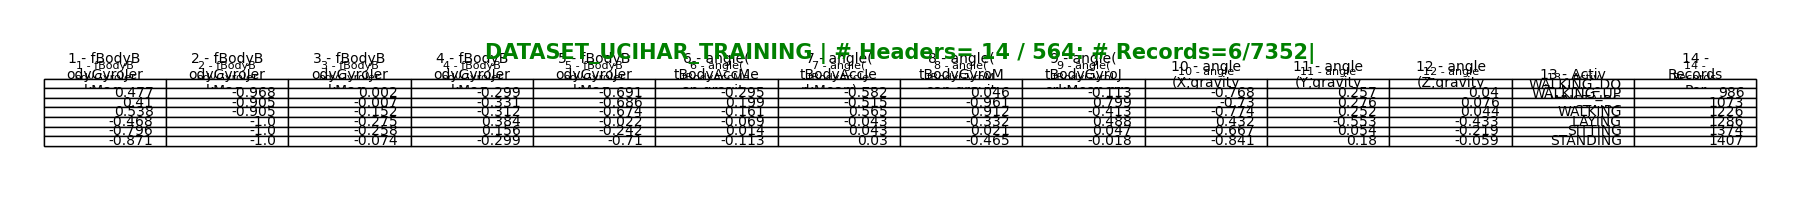
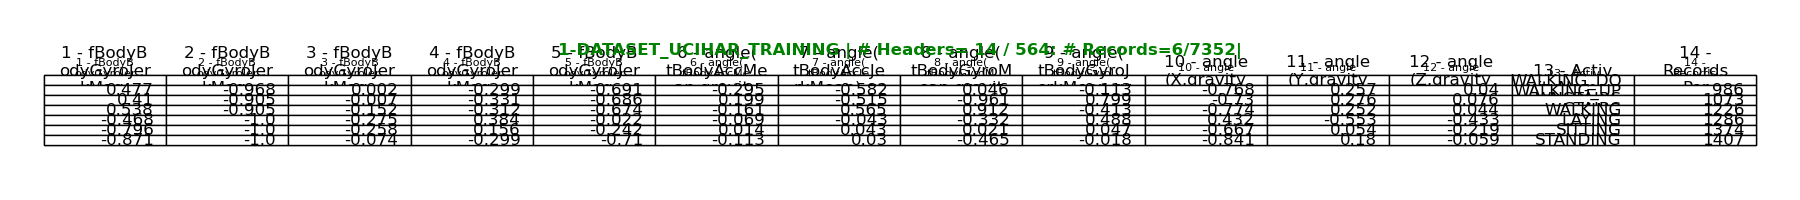
graphs

Changed region(s): [[0.0, 0.21, 0.9956, 0.75]]

diff --git a/3Ucihar/datatable.py b/3Ucihar/datatable.py
@@ -6,15 +6,11 @@ import pandas as pd
 pd.set_option('max_colwidth', 10)
 pd.options.display.precision = 3
 plt.rcParams['figure.figsize'] = [15, 8]  # Plot-frame
-# plt.rcParams["figure.autolayout"] = True
+plt.rcParams["figure.autolayout"] = True
 plt.rcParams.update({'font.size': 29})  # Inside
-fondSizing = 15  # SupTitle & Xlabel
-recordsHieght = 14
+fontSizing = 12  # SupTitle & Xlabel
+recordWidth = 14
 
-print("=================================|Select_DataFrame_Source|========================1==============")
-
-df1 = pd.read_csv("./../6dataXYZ/ucihar4x.csv")
-df1 = pd.DataFrame(df1)
 kalas = ['palegreen', 'orange', 'yellow', 'gray', 'skyblue', 'green', 'palegreen', 'orange', 'yellow', 'gray', 'skyblue', 'green',
          'palegreen', 'orange', 'yellow', 'gray', 'skyblue', 'green', 'palegreen', 'orange', 'yellow', 'gray', 'skyblue', 'green',
          'palegreen', 'orange', 'yellow', 'gray', 'skyblue', 'green', 'palegreen', 'orange', 'yellow', 'gray', 'skyblue', 'green',
@@ -26,7 +22,9 @@ kalas = ['palegreen', 'orange', 'yellow', 'gray', 'skyblue', 'green', 'palegreen
          'palegreen', 'orange', 'yellow', 'gray', 'skyblue', 'green', 'palegreen', 'orange', 'yellow', 'gray', 'skyblue', 'green',
          'palegreen', 'orange', 'yellow', 'gray', 'skyblue', 'green', 'palegreen', 'orange', 'yellow', 'gray', 'skyblue', 'green']
 
-print('=======================================|Activity_Counter|==========================2==============')
+print("=================================|TABLE1_TRAINING_DATA|========================1==============")
+df1 = pd.read_csv("./../6dataXYZ/ucihar4x.csv")
+df1 = pd.DataFrame(df1)
 A1 = len(df1.loc[df1['ActivityName'].isin(['LAYING'])])
 A2 = len(df1.loc[df1['ActivityName'].isin(['STANDING'])])
 A3 = len(df1.loc[df1['ActivityName'].isin(['SITTING'])])
@@ -34,14 +32,15 @@ A4 = len(df1.loc[df1['ActivityName'].isin(['WALKING'])])
 A5 = len(df1.loc[df1['ActivityName'].isin(['WALKING_DOWNSTAIRS'])])
 A6 = len(df1.loc[df1['ActivityName'].isin(['WALKING_UPSTAIRS'])])
 AZ = [A1, A2, A3, A4, A5, A6]
+
 print('=======================================|Limiting_Number_of_Columns|=================3===============')
-df2 = df1.iloc[0:998877128:, -recordsHieght:]  # 18-Records, last-TEN headers
+
+df2 = df1.iloc[0:998877128:, -recordWidth:]  # 18-Records, last-TEN headers
 df7 = df2.duplicated(subset='ActivityName', keep='last')
 df3 = df2.drop_duplicates(subset=["ActivityName"])
 df3.drop('subject', inplace=True, axis=1)
 df3['Records Per Activity'] = AZ
 df3["ActivityName"] = df3["ActivityName"].str.wrap(10)
-print('=======================================|TITLE_Number_TITLE|========================4===============')
 # df3.sort_values(by=['Activity'], inplace=True)
 df3.sort_values(by=['ActivityName'], inplace=True)
 df3.sort_values(by=['Records Per Activity'], inplace=True)
@@ -49,8 +48,11 @@ df3.style.set_table_styles([dict(selector="th", props=[('max-width', '3px')])])
 
 print('=======================================|TITLE_WRAPPING_ONE|========================5===============')
 
+
 def wrap(string, max_width):
     return '\n'.join(textwrap.wrap(string, max_width))
+
+
 currentHeaderX = df3.columns
 columnHeaderx_new = []
 chomax = 0
@@ -62,9 +64,6 @@ df3.columns = columnHeaderx_new
 df3 = df3.round(3)
 l = len(df3)
 c = len(df3.columns)
-print(df1.shape)
-print(df2.shape)
-print(df3.shape)
 
 fig, ax = plt.subplots(figsize=(18, 2))
 fig.patch.set_visible(False)
@@ -75,15 +74,15 @@ ax1 = ax.table(cellText=df3.values, colLabels=df3.columns,
 ax1 = ax.table(cellText=df3.values, colLabels=df3.columns,
                loc='center', fontsize=15)
 ax1.auto_set_font_size(False)
-ax1.set_fontsize(10)
-plt.title('DATASET_UCIHAR_TRAINING | # Headers= '+str(c) + ' / '+str(len(df1.columns)) +
-          ': # Records='+str(l)+'/'+str(len(df1))+'|', fontsize=fondSizing, color='green', fontweight="bold")
-plt.tight_layout()
-fig.tight_layout()
+ax1.set_fontsize(fontSizing)
+plt.title('1-DATASET_UCIHAR_TRAINING | # Headers= '+str(c) + ' / '+str(len(df1.columns)) +
+          ': # Records='+str(l)+'/'+str(len(df1))+'|', fontsize=fontSizing, color='green', fontweight="bold")
+# plt.tight_layout()
+# fig.tight_layout()
 plt.savefig('../UXviews/tables/TC1.png')
 plt.show()
 
-print('=======================================|Table_TESTING_DATA|==========================7T1================')
+print('=======================================|TABLE2_TESTING_DATA|==========================7T1================')
 
 df1 = pd.read_csv("./../6dataxyz/ucihart2.csv")
 A1 = len(df1.loc[df1['ActivityName'].isin(['LAYING'])])
@@ -93,12 +92,10 @@ A4 = len(df1.loc[df1['ActivityName'].isin(['WALKING'])])
 A5 = len(df1.loc[df1['ActivityName'].isin(['WALKING_DOWNSTAIRS'])])
 A6 = len(df1.loc[df1['ActivityName'].isin(['WALKING_UPSTAIRS'])])
 AZ = [A1, A2, A3, A4, A5, A6]
-print(sum(AZ))
-print(df1.shape)
 
 print('=======================================|Limiting_Number_of_Columns|=================8T2===============')
 
-df2 = df1.iloc[0:2947:, -recordsHieght:]  # 18-Records, last-TEN headers
+df2 = df1.iloc[0:2947:, -recordWidth:]  # 18-Records, last-TEN headers
 df7 = df2.duplicated(subset='ActivityName', keep='last')
 df3 = df2.drop_duplicates(subset=["ActivityName"])
 df3.drop('subject', inplace=True, axis=1)
@@ -110,8 +107,11 @@ df3["ActivityName"] = df3["ActivityName"].str.wrap(10)
 
 print('=======================================|TITLE_WRAPPING_TWO|========================9T3===============')
 
+
 def wrap(string, max_width):
     return '\n'.join(textwrap.wrap(string, max_width))
+
+
 currentHeaderX = df3.columns
 columnHeaderx_new = []
 chomax = 0
@@ -120,7 +120,7 @@ for pemba in currentHeaderX:
     columnHeaderx_new.append(wrap(s, 10))
     chomax += 1
 df3.columns = columnHeaderx_new
-df3 = df3.round(9)
+df3 = df3.round(3)
 l = len(df3)
 c = len(df3.columns)
 
@@ -133,13 +133,15 @@ ax1 = ax.table(cellText=df3.values, colLabels=df3.columns,
 ax1 = ax.table(cellText=df3.values, colLabels=df3.columns,
                loc='center', fontsize=15)
 ax1.auto_set_font_size(False)
-ax1.set_fontsize(12)
-plt.title('DATASET_UCIHAR_TESTING | # Headers= '+str(c) + ' / '+str(len(df1.columns)) +
-          ': # Records='+str(l)+'/'+str(len(df1))+'|', fontsize=fondSizing, color='green', fontweight="bold")
-
-plt.tight_layout()
-fig.tight_layout()
+ax1.set_fontsize(fontSizing)
+plt.title('2-DATASET_UCIHAR_TESTING | # Headers= '+str(c) + ' / '+str(len(df1.columns)) +
+          ': # Records='+str(l)+'/'+str(len(df1))+'|', fontsize=fontSizing, color='green', fontweight="bold")
+# plt.tight_layout()
+# fig.tight_layout()
 plt.savefig('../UXviews/tables/TC2.png')
 plt.show()
 
 print("===================================|UCIHAR_Plotting_completed_Successufly|==============11===========")
+print(df1.shape)
+print(df2.shape)
+print(df3.shape)
